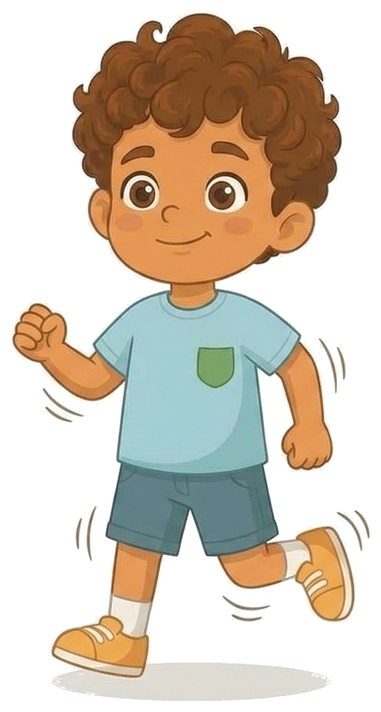
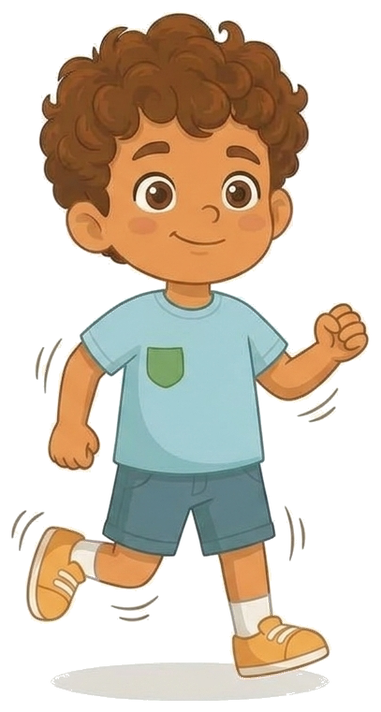
Fix Fofo running backwards: his run pose was drawn facing left
The app expects every pose to face right and mirrors it when a brother
heads left. Flip Fofo's run pose (and its head centre), and add a FLIP list
to process_poses.py so a re-run keeps it right.

diff --git a/tools/characters/process_poses.py b/tools/characters/process_poses.py
@@ -70,6 +70,10 @@ BY_HEIGHT = {"fish", "jump", "hold"}
 # game starts the fishing line.
 ROD = {"fish", "reel"}
 
+# Poses drawn facing LEFT. The app expects every pose to face right (it
+# mirrors them itself when a brother walks left), so these are flipped.
+FLIP = {("fofo", "run")}
+
 # Head (hair) width in the output, in px. Fofo is smaller, like in the approved lineup.
 HEAD_W = {"nono": 300, "fofo": 262}
 SMALL_H = 256
@@ -300,6 +304,9 @@ def main():
             cut = rgba.crop(box)
             size = (round(cut.width * scale), round(cut.height * scale))
             full = cut.resize(size, Image.LANCZOS)
+            flip = (name, pose) in FLIP
+            if flip:
+                full = full.transpose(Image.FLIP_LEFT_RIGHT)
             full.save(os.path.join(OUT, name, f"{pose}.png"), optimize=True)
             sw = round(full.width * SMALL_H / full.height)
             full.resize((sw, SMALL_H), Image.LANCZOS).save(os.path.join(OUT, name, "small", f"{pose}.png"), optimize=True)
@@ -309,6 +316,9 @@ def main():
                 # head centre, so the app can line poses up when switching
                 "head_center": [round(((hx0 + hx1) / 2 - box[0]) * scale), round(((hy0 + hy1) / 2 - box[1]) * scale)],
             }
+            if flip:
+                hc = manifest["characters"][name][pose]["head_center"]
+                hc[0] = full.width - hc[0]
             if pose in ROD:
                 tx, ty = rod_tip(rgba)
                 manifest["characters"][name][pose]["rod_tip"] = [
